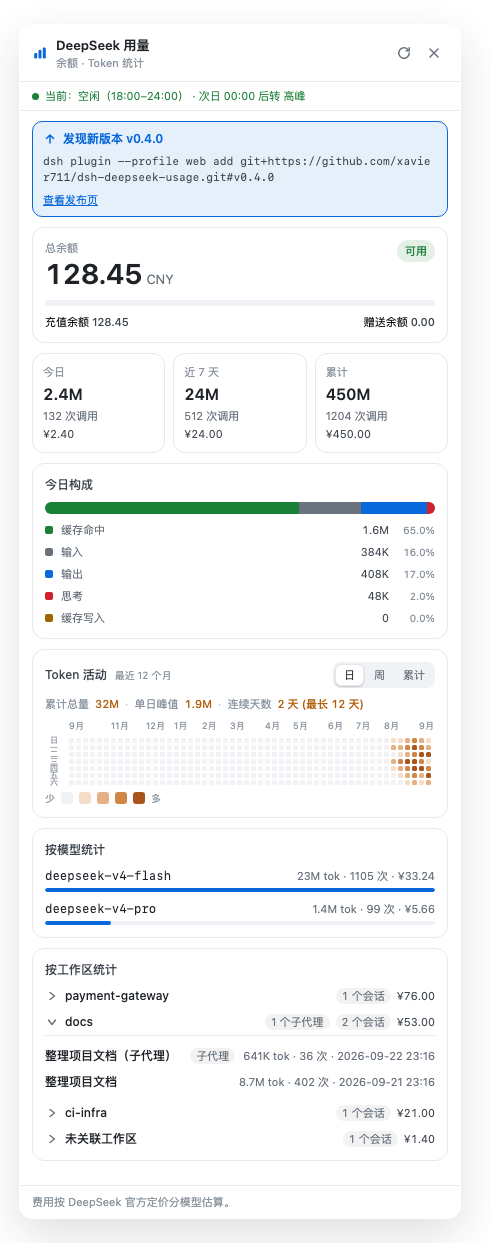
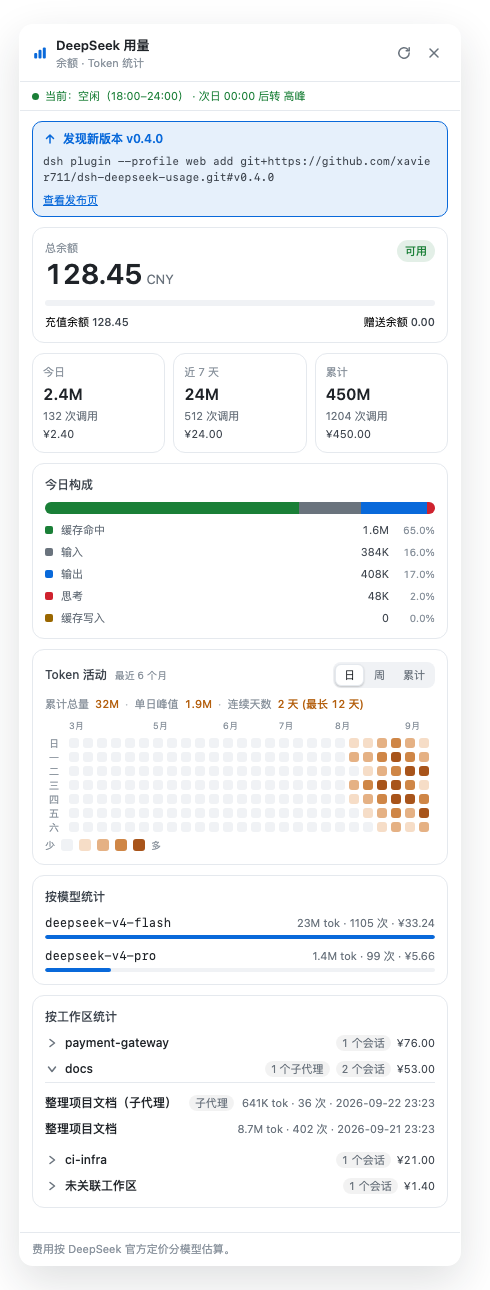
日视图缩到最近 6 个月，把格子放到看得清
12 个月塞进 440px 侧边栏，每格只有 5px，和参考那种一格一格的观感差太远。参考是
终端全宽，12 个月能有 14px 的格子；侧边栏给不了这个宽度，所以按用户选择把日视图
缩到最近 26 周（6 个月）。

- 格子 10px + 4px 间距 = 每列 14px，26 列共 360px（可用 366px）；格间距从 2px 提到
  4px，行距 14px 也让七个星期标签终于放得下（原来 8px 字挤在 7px 行距里）。
- 日视图副标题跟着变成「最近 6 个月」，新增 local.last6Months（zh/en 各一条）。
- 周/累计视图保持 12 个月：它们是每周一根柱，不占格子的宽度预算。
- 月份标签改成按传入的周集合计算，日视图 = 6 个标签、柱状图 = 12 个，列距也随视图。

验证：两套主题探针 HEAT=182（26×7）、LVL=144/9/12/9/8、MONTH=6 MOVL=0、
BUDGET=390:366:fit、GBOX 显示网格 360×94（原来 362×47）、CELLVIS=ok、
L4 仍是 #feb484 / 浅色 #a8541a、ERRS=none。47 条测试通过，字典 zh/en 各 127 键。
截图重出（PH=1242、BH=1290）。

diff --git a/lib/client.js b/lib/client.js
@@ -188,15 +188,17 @@ body[data-ds-dark-theme] .du-activityCard{--du-heat-ink:#feb484;--du-heat-bar:#f
 .du-activityMonths{flex:none;position:relative;height:12px;margin-left:24px;display:block}
 .du-activityMonth{position:absolute;top:0;color:var(--dsw-alias-label-caption);font-size:9px;line-height:12px}
 .du-activityBody{flex:none;align-items:flex-start;gap:6px;display:flex}
-.du-activityLabels{flex:none;flex-direction:column;gap:2px;width:18px;display:flex}
-.du-activityLabels span{color:var(--dsw-alias-label-caption);height:5px;text-align:center;font-size:8px;line-height:5px;flex:none}
-.du-activityGrid{flex:none;gap:2px;display:flex}
-.du-activityWeek{flex:none;flex-direction:column;gap:2px;display:flex}
+.du-activityLabels{flex:none;flex-direction:column;gap:4px;width:18px;display:flex}
+.du-activityLabels span{color:var(--dsw-alias-label-caption);height:10px;text-align:center;font-size:10px;line-height:10px;flex:none}
+.du-activityGrid{flex:none;gap:4px;display:flex}
+.du-activityWeek{flex:none;flex-direction:column;gap:4px;display:flex}
 /* 格距是算出来的：面板固定 440px → 卡片内容 390px → 减去 18px 星期标签和 6px 间距，
-   网格最多 366px。取最近 52 周（52 列），5px 格子 + 2px 间距 = 每列 7px → 362px。
+   网格最多 366px。日视图只放最近 6 个月（26 列），10px 格子 + 4px 间距 = 每列 14px
+   → 360px 放得下，格子也够大（参考实现是终端全宽，12 个月能有 14px 格子；侧边栏
+   塞 12 个月只剩 5px，所以日视图缩到 6 个月，周/累计视图仍覆盖 12 个月）。
    格子再大一点就会超出，被 .du-body 的 overflow-x:hidden 悄悄裁掉最右边几列，
    所以改尺寸必须看探针的 BUDGET=...:fit|OVERFLOW。 */
-.du-activityCell{width:5px;height:5px;border-radius:1.5px;flex:none;position:relative;transition:opacity .1s}
+.du-activityCell{width:10px;height:10px;border-radius:3px;flex:none;position:relative;transition:opacity .1s}
 .du-activityCell[data-dim]{opacity:.25}
 .du-activityCaption{color:var(--dsw-alias-label-caption);font-size:10px;line-height:14px}
 .du-calLegend{flex:none;align-items:center;gap:6px;color:var(--dsw-alias-label-caption);font-size:10px;line-height:14px;display:flex}
@@ -907,6 +909,9 @@ body[data-ds-dark-theme] .du-activityCell[data-level="4"],body[data-ds-dark-them
       while (weeks.length > 0 && weeks[weeks.length - 1].length < 7) weeks[weeks.length - 1].push(null);
       while (weeks.length > 0 && weeks[0].length < 7) weeks[0].unshift(null);
       const shown = weeks.slice(-52);
+      // 日视图只画最近 6 个月：格子在 440px 侧边栏里才能大到看得清（见 css 注释）。
+      const DAILY_WEEKS = 26;
+      const dailyWeeks = shown.slice(-DAILY_WEEKS);
 
       // 每周边界换算成一根柱子用的聚合桶（柱状图与累计图共用）。
       const weekBuckets = shown.map((week) => {
@@ -925,20 +930,25 @@ body[data-ds-dark-theme] .du-activityCell[data-level="4"],body[data-ds-dark-them
         return bucket;
       });
 
-      // 月份标签：该周跨进新月份时打一个，挨太近就跳过（格子只有 5px 宽）。
-      const months = [];
-      let lastMonth = "";
-      let lastColumn = -9;
-      shown.forEach((week, index) => {
-        const first = week.find((day) => day !== null);
-        if (first === undefined) return;
-        const month = first.date.slice(0, 7);
-        if (month === lastMonth) return;
-        lastMonth = month;
-        if (index - lastColumn < 3) return;
-        lastColumn = index;
-        months.push({ key: month, index, label: t(`local.month${parseInt(month.slice(5, 7), 10)}`) });
-      });
+      // 月份标签：该周跨进新月份时打一个，挨太近就跳过（否则会叠在一起）。
+      const monthLabels = (list) => {
+        const out = [];
+        let lastMonth = "";
+        let lastColumn = -9;
+        list.forEach((week, index) => {
+          const first = week.find((day) => day !== null);
+          if (first === undefined) return;
+          const month = first.date.slice(0, 7);
+          if (month === lastMonth) return;
+          lastMonth = month;
+          if (index - lastColumn < 3) return;
+          lastColumn = index;
+          out.push({ key: month, index, label: t(`local.month${parseInt(month.slice(5, 7), 10)}`) });
+        });
+        return out;
+      };
+      const months = monthLabels(shown);
+      const dailyMonths = monthLabels(dailyWeeks);
 
       const renderWeek = (week, weekIndex) => react.createElement("div", { key: weekIndex, className: styles.activityWeek },
         week.map((day, row) => {
@@ -1034,7 +1044,7 @@ body[data-ds-dark-theme] .du-activityCell[data-level="4"],body[data-ds-dark-them
         react.createElement("div", { className: styles.cardHead },
           react.createElement("div", { className: styles.cardTitle },
             t("local.activity"),
-            react.createElement("span", { className: styles.activitySubtitle }, t("local.last12Months"))
+            react.createElement("span", { className: styles.activitySubtitle }, view === "daily" ? t("local.last6Months") : t("local.last12Months"))
           ),
           react.createElement("div", { className: styles.seg, role: "tablist", "aria-label": t("local.activity") },
             views.map(([key, label]) =>
@@ -1060,8 +1070,8 @@ body[data-ds-dark-theme] .du-activityCell[data-level="4"],body[data-ds-dark-them
         view === "daily"
           ? react.createElement("div", { className: styles.activity },
               react.createElement("div", { className: styles.activityMonths },
-                months.map((month) =>
-                  react.createElement("span", { key: month.key, className: styles.activityMonth, style: { left: `${month.index * 7}px` } }, month.label)
+                dailyMonths.map((month) =>
+                  react.createElement("span", { key: month.key, className: styles.activityMonth, style: { left: `${month.index * 14}px` } }, month.label)
                 )
               ),
               react.createElement("div", { className: styles.activityBody },
@@ -1071,7 +1081,7 @@ body[data-ds-dark-theme] .du-activityCell[data-level="4"],body[data-ds-dark-them
                   )
                 ),
                 react.createElement("div", { className: styles.activityGrid, role: "img", "aria-label": t("local.activity") },
-                  shown.map(renderWeek)
+                  dailyWeeks.map(renderWeek)
                 )
               ),
               react.createElement("div", { className: styles.calLegend },
@@ -1645,6 +1655,7 @@ body[data-ds-dark-theme] .du-activityCell[data-level="4"],body[data-ds-dark-them
       "local.totalTokens": "总 tokens",
       "local.activity": "Token 活动",
       "local.last12Months": "最近 12 个月",
+      "local.last6Months": "最近 6 个月",
       "local.viewDaily": "日",
       "local.viewWeekly": "周",
       "local.viewCumulative": "累计",
@@ -1780,6 +1791,7 @@ body[data-ds-dark-theme] .du-activityCell[data-level="4"],body[data-ds-dark-them
       "local.totalTokens": "Total tokens",
       "local.activity": "Token activity",
       "local.last12Months": "last 12 months",
+      "local.last6Months": "last 6 months",
       "local.viewDaily": "Daily",
       "local.viewWeekly": "Weekly",
       "local.viewCumulative": "Cumulative",

diff --git a/screenshots/render-test.html b/screenshots/render-test.html
@@ -186,6 +186,7 @@ window.__ZH = {
       "local.totalTokens": "总 tokens",
       "local.activity": "Token 活动",
       "local.last12Months": "最近 12 个月",
+      "local.last6Months": "最近 6 个月",
       "local.viewDaily": "日",
       "local.viewWeekly": "周",
       "local.viewCumulative": "累计",
@@ -238,7 +239,7 @@ window.__ZH = {
   const SAMPLE = {
  "/dsh-usage/balance": {
   "ok": true,
-  "fetchedAt": 1790176611435,
+  "fetchedAt": 1790176997045,
   "isAvailable": true,
   "currency": "CNY",
   "totalBalance": "128.45",
@@ -247,13 +248,13 @@ window.__ZH = {
  },
  "/dsh-usage/local": {
   "ok": true,
-  "fetchedAt": 1790176611435,
+  "fetchedAt": 1790176997045,
   "sessionCount": 3,
   "errorSessions": 0,
   "pricing": {
    "currency": "CNY",
    "note": "official",
-   "newPricingAt": 1790176611435,
+   "newPricingAt": 1790176997045,
    "weekendOffPeakAt": 1787414400000,
    "holidayOffPeakAt": 1789747200000,
    "peakHours": [
@@ -4053,8 +4054,8 @@ window.__ZH = {
     "title": "优化支付网关性能",
     "workspace": "/Users/alice/dev/payment-gateway",
     "subagent": false,
-    "createdAt": 1790090211435,
-    "lastActiveAt": 1790173011435,
+    "createdAt": 1790090597045,
+    "lastActiveAt": 1790173397045,
     "calls": 618,
     "inputTokens": 1900000,
     "outputTokens": 2100000,
@@ -4069,8 +4070,8 @@ window.__ZH = {
     "title": "整理项目文档",
     "workspace": "/Users/alice/docs",
     "subagent": false,
-    "createdAt": 1790003811435,
-    "lastActiveAt": 1790003811435,
+    "createdAt": 1790004197045,
+    "lastActiveAt": 1790004197045,
     "calls": 402,
     "inputTokens": 1300000,
     "outputTokens": 1500000,
@@ -4085,8 +4086,8 @@ window.__ZH = {
     "title": "修复 CI 流水线",
     "workspace": "/Users/alice/ci-infra",
     "subagent": false,
-    "createdAt": 1789917411435,
-    "lastActiveAt": 1789917411435,
+    "createdAt": 1789917797045,
+    "lastActiveAt": 1789917797045,
     "calls": 184,
     "inputTokens": 500000,
     "outputTokens": 600000,
@@ -4101,8 +4102,8 @@ window.__ZH = {
     "title": "整理项目文档（子代理）",
     "workspace": "/Users/alice/docs",
     "subagent": true,
-    "createdAt": 1790003811435,
-    "lastActiveAt": 1790090211435,
+    "createdAt": 1790004197045,
+    "lastActiveAt": 1790090597045,
     "calls": 36,
     "inputTokens": 90000,
     "outputTokens": 110000,
@@ -4117,8 +4118,8 @@ window.__ZH = {
     "title": "临时想法速记",
     "workspace": null,
     "subagent": false,
-    "createdAt": 1789831011435,
-    "lastActiveAt": 1789831011435,
+    "createdAt": 1789831397045,
+    "lastActiveAt": 1789831397045,
     "calls": 27,
     "inputTokens": 60000,
     "outputTokens": 80000,
@@ -4172,8 +4173,8 @@ window.__ZH = {
       "id": "s1",
       "title": "优化支付网关性能",
       "subagent": false,
-      "createdAt": 1790090211435,
-      "lastActiveAt": 1790173011435,
+      "createdAt": 1790090597045,
+      "lastActiveAt": 1790173397045,
       "calls": 618,
       "inputTokens": 1900000,
       "outputTokens": 2100000,
@@ -4226,8 +4227,8 @@ window.__ZH = {
       "id": "s2",
       "title": "整理项目文档",
       "subagent": false,
-      "createdAt": 1790003811435,
-      "lastActiveAt": 1790003811435,
+      "createdAt": 1790004197045,
+      "lastActiveAt": 1790004197045,
       "calls": 402,
       "inputTokens": 1300000,
       "outputTokens": 1500000,
@@ -4240,8 +4241,8 @@ window.__ZH = {
       "id": "s4",
       "title": "整理项目文档（子代理）",
       "subagent": true,
-      "createdAt": 1790003811435,
-      "lastActiveAt": 1790090211435,
+      "createdAt": 1790004197045,
+      "lastActiveAt": 1790090597045,
       "calls": 36,
       "inputTokens": 90000,
       "outputTokens": 110000,
@@ -4294,8 +4295,8 @@ window.__ZH = {
       "id": "s3",
       "title": "修复 CI 流水线",
       "subagent": false,
-      "createdAt": 1789917411435,
-      "lastActiveAt": 1789917411435,
+      "createdAt": 1789917797045,
+      "lastActiveAt": 1789917797045,
       "calls": 184,
       "inputTokens": 500000,
       "outputTokens": 600000,
@@ -4348,8 +4349,8 @@ window.__ZH = {
       "id": "s5",
       "title": "临时想法速记",
       "subagent": false,
-      "createdAt": 1789831011435,
-      "lastActiveAt": 1789831011435,
+      "createdAt": 1789831397045,
+      "lastActiveAt": 1789831397045,
       "calls": 27,
       "inputTokens": 60000,
       "outputTokens": 80000,
@@ -4364,7 +4365,7 @@ window.__ZH = {
  },
  "/dsh-usage/version": {
   "ok": true,
-  "checkedAt": 1790176611435,
+  "checkedAt": 1790176997045,
   "installed": "0.1.0",
   "latest": "0.4.0",
   "updateAvailable": true,
@@ -4372,7 +4373,7 @@ window.__ZH = {
  },
  "/dsh-usage/period": {
   "ok": true,
-  "now": 1790176611435,
+  "now": 1790176997045,
   "period": "offPeak",
   "range": [
    1080,

diff --git a/README.md b/README.md
@@ -5,7 +5,7 @@
 A DeepSeek usage panel plugin for the [DeepSeek Harness](https://github.com/deepseek-ai/deepseek-harness) Web GUI. It adds a **「Usage / 用量」** entry at the bottom of the left sidebar showing:
 
 - **Account balance** — queried live from the official endpoint `GET /user/balance` (total, topped-up, granted).
-- **Local usage** — replays your own session logs (which store the official per-request `usage` records) and shows: today / last 7 days / all time, a 7-day chart, a **12-month activity card** with daily / weekly / cumulative views (daily is one square per day — hover shows that day's full breakdown; weekly is one bar per week; cumulative adds them up), today's token composition, **per-model statistics**, and **per-workspace statistics** (a workspace is the session's project directory; a collapsible panel expands each workspace into its own session records, and subagent sessions count toward their parent workspace).
+- **Local usage** — replays your own session logs (which store the official per-request `usage` records) and shows: today / last 7 days / all time, a 7-day chart, a **12-month activity card** with daily / weekly / cumulative views (daily is a 6-month grid, one square per day, hover shows that day's full breakdown; weekly is one bar per week over 12 months; cumulative adds those up), today's token composition, **per-model statistics**, and **per-workspace statistics** (a workspace is the session's project directory; a collapsible panel expands each workspace into its own session records, and subagent sessions count toward their parent workspace).
 - **Cost estimate** — priced **per model** at official DeepSeek rates (CNY per 1M tokens), including the V4 peak/off-peak pricing effective 2026-08-17 (peak hours in Beijing time are applied automatically), the 2026-08-23 rule change — **weekends (Sat/Sun) are all-day off-peak** — the 2026-09-19 clarification that **make-up working weekends and Chinese statutory holidays are off-peak all day too** (holiday dates come from [`holidays.json`](holidays.json) in this repository, refreshed every 6 h, with the 2026 State Council schedule built in as an offline fallback), and the 2026-09-10 12:00 flash-series price cut (off-peak ¥1 input / ¥0.02 cache hit / ¥4 output, peak doubled). **V4 Pro keeps its own peak/off-peak rates** — its 2026-09-14 retirement was cancelled on 2026-09-11, so it is *not* billed as flash. The sidebar entry and the panel header show a live **current-period indicator** (peak/off-peak, with the active time window and the next transition).
 - **Works across DSH versions** — session history is read through whichever `sessionPersistence` seam the running harness exposes: the current snapshot-list + `open(id,'read')` handle API, or the older header-list + `inspect()` API. The panel no longer comes up empty on a newer harness.
 

diff --git a/README.zh.md b/README.zh.md
@@ -5,7 +5,7 @@
 DeepSeek 用量面板插件 —— 装在 [DeepSeek Harness](https://github.com/deepseek-ai/deepseek-harness) 的 Web 界面里，在左侧边栏底部显示你的用量：
 
 - **账户余额**：实时查询官方接口 `GET /user/balance`（余额、充值/赠送拆分）
-- **本地用量**：回放你本机会话日志里的官方 token 计数 —— 今日 / 近 7 天 / 累计、7 天柱状图、**12 个月活动图**（日/周/累计三种视图：日视图一天一格，悬停看当天完整构成；周视图每周一根柱；累计视图逐周累加）、今日构成、**按模型统计**、**按工作区统计**（工作区 = 会话所在的项目目录，折叠面板按工作区展开查看各自的会话记录；子代理会话计入其父工作区）
+- **本地用量**：回放你本机会话日志里的官方 token 计数 —— 今日 / 近 7 天 / 累计、7 天柱状图、**12 个月活动图**（日/周/累计三种视图：日视图是最近 6 个月、一天一格，悬停看当天完整构成；周视图是 12 个月里每周一根柱；累计视图逐周累加）、今日构成、**按模型统计**、**按工作区统计**（工作区 = 会话所在的项目目录，折叠面板按工作区展开查看各自的会话记录；子代理会话计入其父工作区）
 - **费用估算**：按模型套用 DeepSeek **官方定价**（含 2026-08-17 起 V4 系列峰谷定价，北京时间自动区分高峰/空闲；2026-08-23 起**周末（周六、周日）全天按低谷价计费**，不再区分峰谷；2026-09-19 官方补充说明进一步明确**调休上班的周末、中国法定节假日全天同样按空闲时段计费**（假期日期取自本仓库的 [`holidays.json`](holidays.json)，每 6 小时刷新一次，并内置 2026 年国务院安排作为离线兜底）；2026-09-10 12:00 起 flash 系列降价至空闲 ¥1 / 缓存命中 ¥0.02 / 输出 ¥4、高峰翻倍）。**V4 Pro 继续按自身峰谷价计费**——其 2026-09-14 下线已于 9-11 公告取消，**不**按 V4.1 Flash 计费。侧边栏入口和面板头部会实时显示**当前时段标识**（高峰/空闲，含当前时段区间与下一次切换时间）
 - **兼容新旧 DSH**：会话历史读取同时支持新版 `sessionPersistence`（`list()` 返回快照 + `open(id,'read')` 读句柄）与旧版接口（`list()` 返回 header + `inspect()`），在新版 harness 上不会再出现「会话历史读不到」
 
